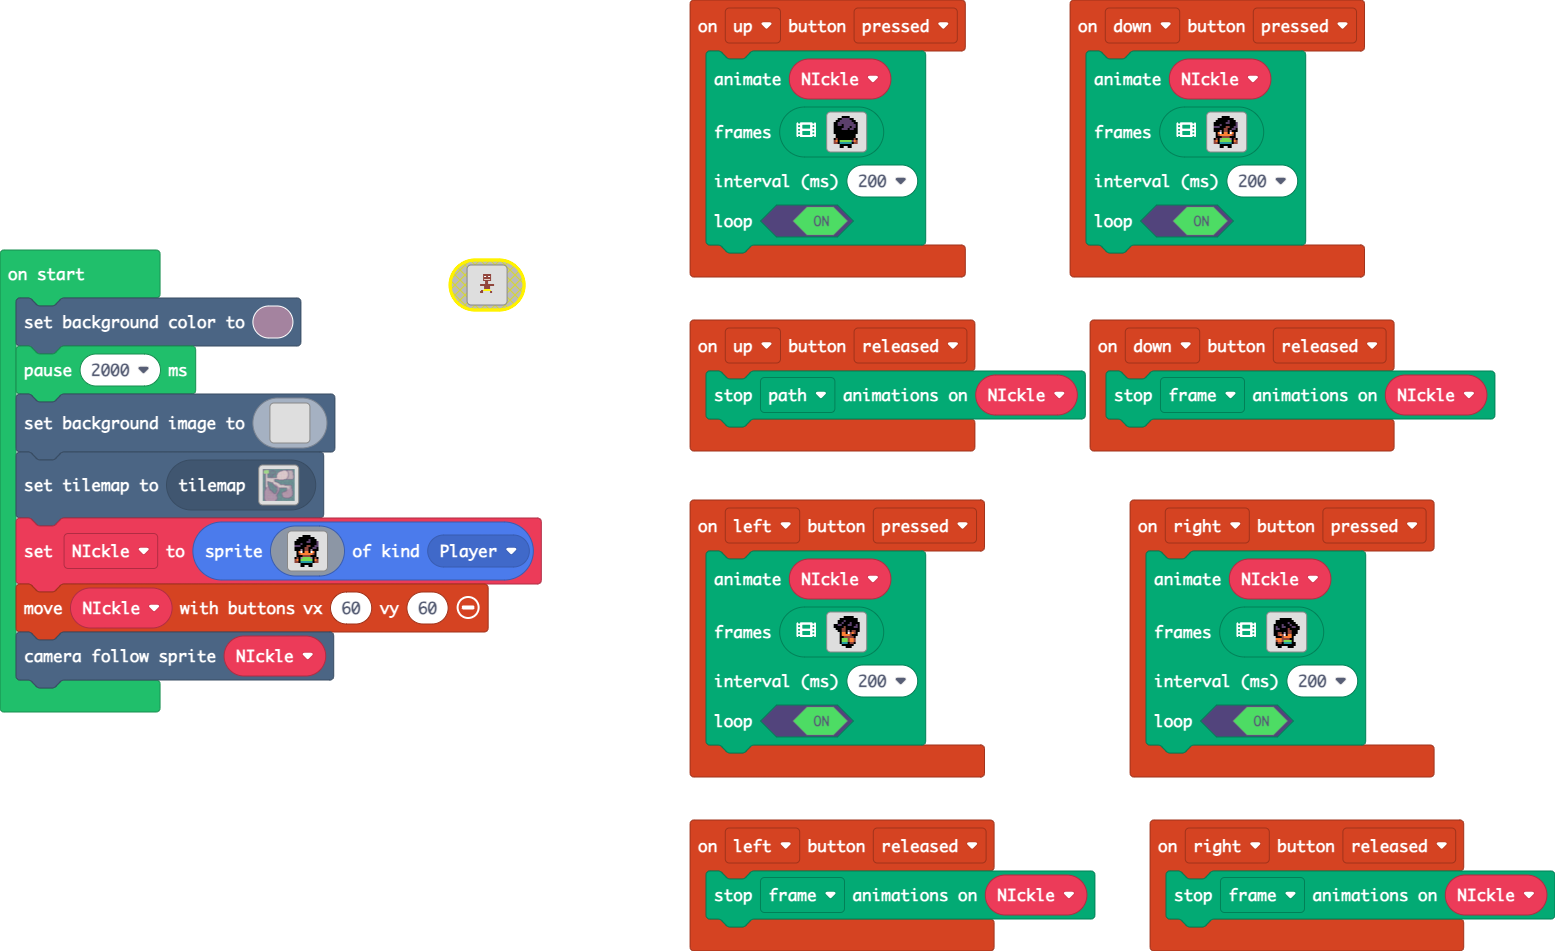
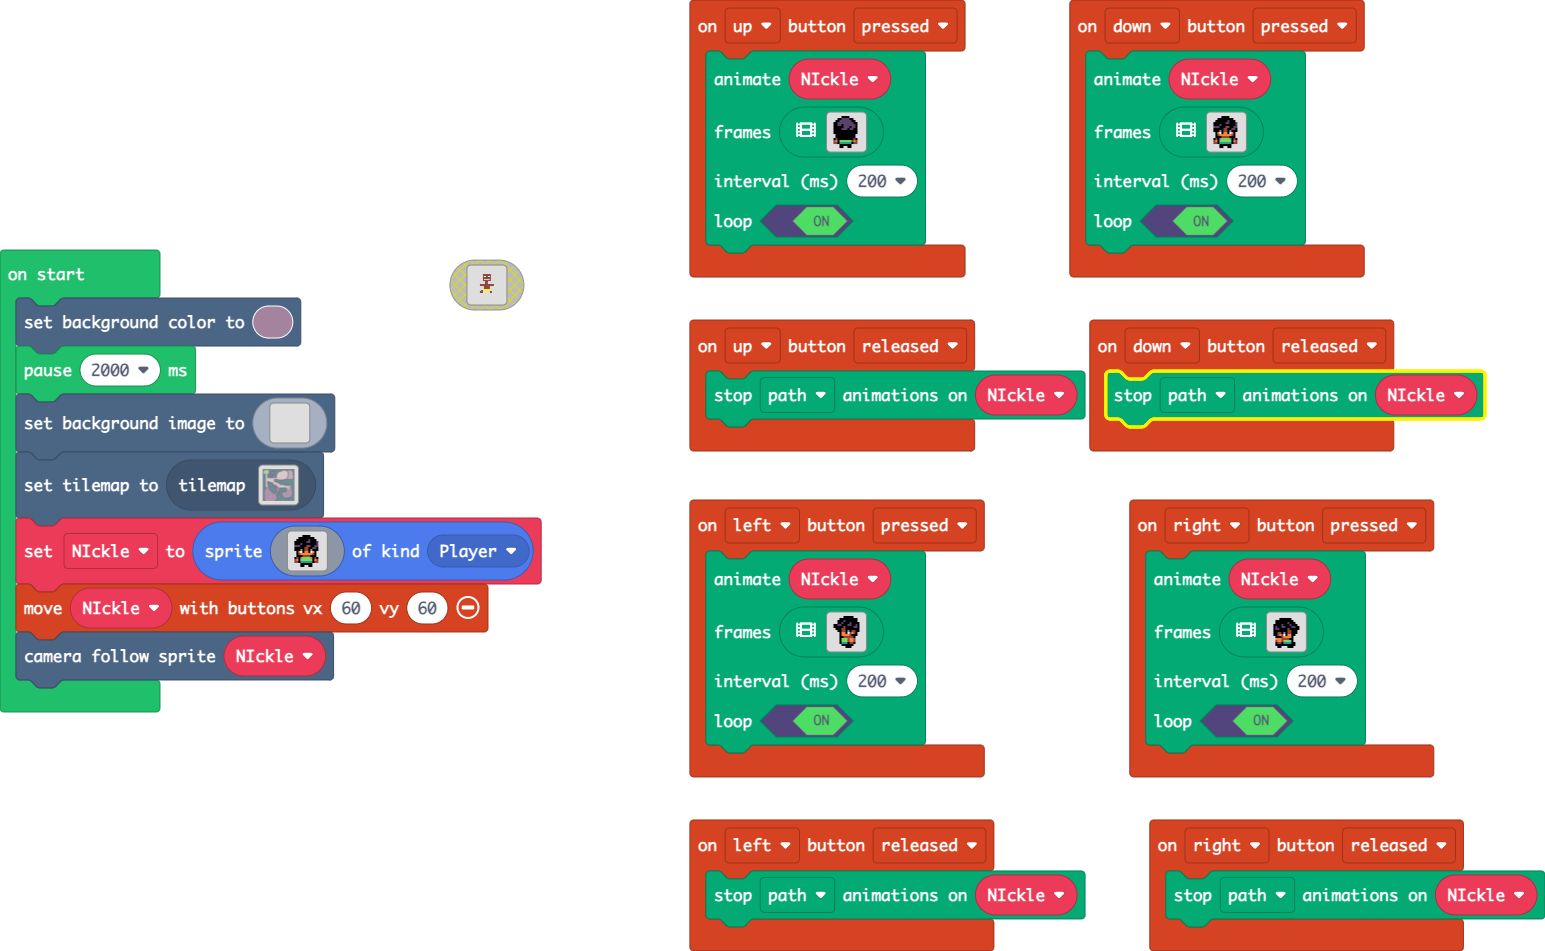
Update main.blocks, main.ts

diff --git a/main.ts b/main.ts
@@ -58,7 +58,7 @@ controller.up.onEvent(ControllerButtonEvent.Pressed, function () {
     )
 })
 controller.down.onEvent(ControllerButtonEvent.Released, function () {
-    animation.stopAnimation(animation.AnimationTypes.ImageAnimation, NIckle)
+    animation.stopAnimation(animation.AnimationTypes.MovementAnimation, NIckle)
 })
 controller.left.onEvent(ControllerButtonEvent.Pressed, function () {
     animation.runImageAnimation(
@@ -120,10 +120,10 @@ controller.left.onEvent(ControllerButtonEvent.Pressed, function () {
     )
 })
 controller.right.onEvent(ControllerButtonEvent.Released, function () {
-    animation.stopAnimation(animation.AnimationTypes.ImageAnimation, NIckle)
+    animation.stopAnimation(animation.AnimationTypes.MovementAnimation, NIckle)
 })
 controller.left.onEvent(ControllerButtonEvent.Released, function () {
-    animation.stopAnimation(animation.AnimationTypes.ImageAnimation, NIckle)
+    animation.stopAnimation(animation.AnimationTypes.MovementAnimation, NIckle)
 })
 controller.right.onEvent(ControllerButtonEvent.Pressed, function () {
     animation.runImageAnimation(
